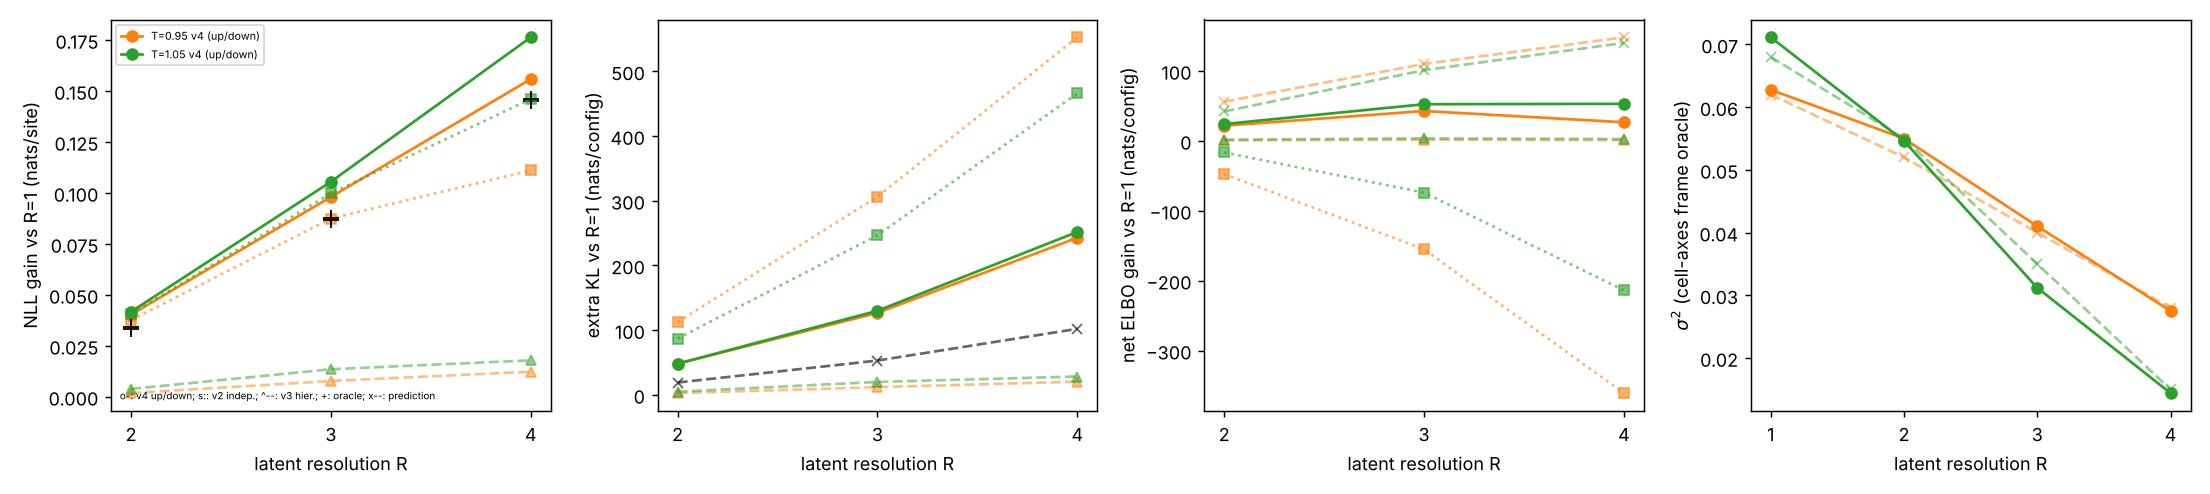
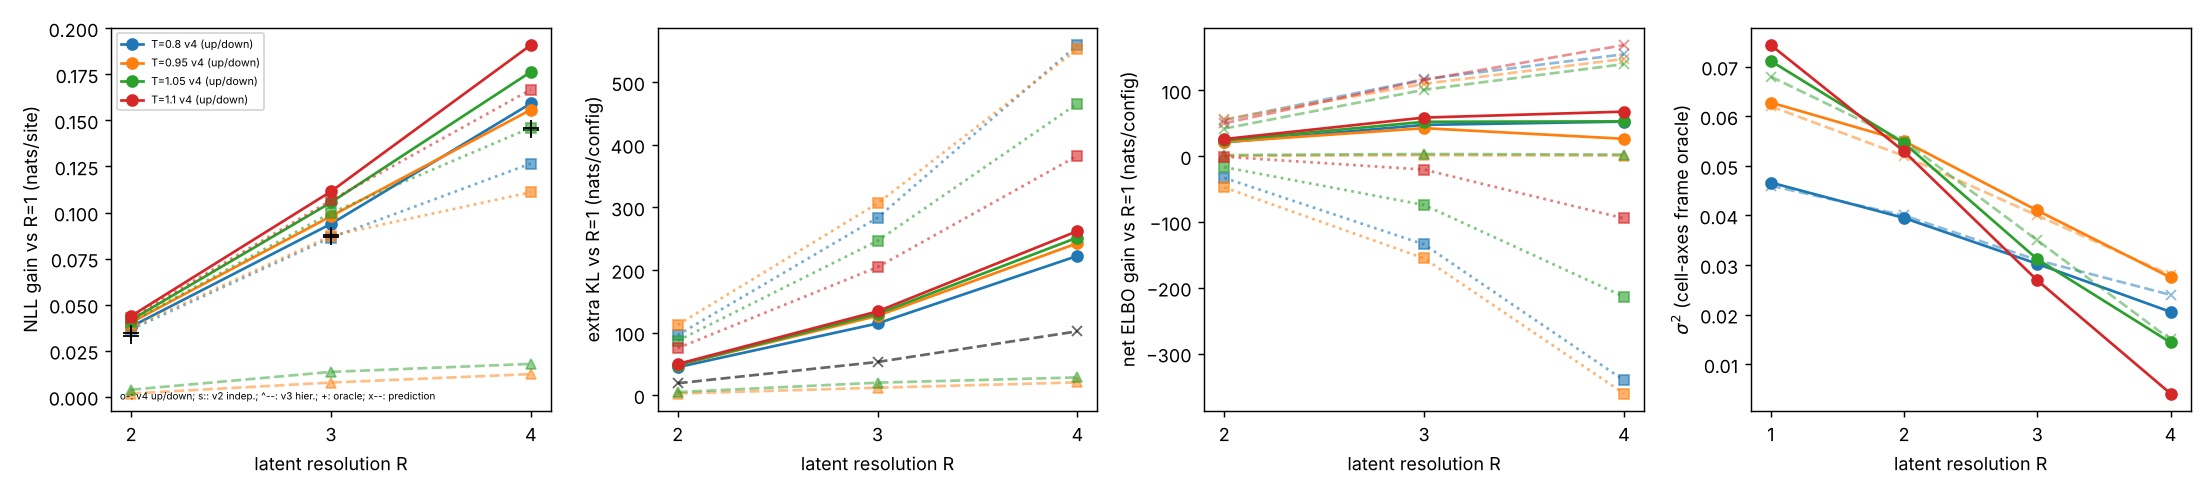
Add v4 report, tables B/W, report script fixes
Claude-Session: https://claude.ai/code/session_01Y8iixnGbWQd54BqjnRoHka

diff --git a/src/make_report_v4.py b/src/make_report_v4.py
@@ -20,8 +20,8 @@ for T in (0.95, 1.05):
             if mm: ORC[(T, int(mm.group(1)))] = float(mm.group(2))
     except FileNotFoundError: pass
 CHAT_ORC = {0.95: {2: .038, 3: .086, 4: .142}}
-PKL = {2: 19, 3: 53, 4: 102}; PNET = {0.95: {2: 56, 3: 110, 4: 148}, 1.05: {2: 42, 3: 101, 4: 140}}
-PS2 = {0.95: [0.062, 0.052, 0.040, 0.028], 1.05: [0.068, 0.055, 0.035, 0.015]}
+PKL = {2: 19, 3: 53, 4: 102}; PNET = {0.95: {2: 56, 3: 110, 4: 148}, 1.05: {2: 42, 3: 101, 4: 140}, 0.80: {2: 55, 3: 117, 4: 155}, 1.10: {2: 50, 3: 116, 4: 169}}
+PS2 = {0.80: [0.046, 0.040, 0.031, 0.024], 0.95: [0.062, 0.052, 0.040, 0.028], 1.05: [0.068, 0.055, 0.035, 0.015]}
 Ts = sorted({T for (T, R) in up})
 # ---- task A table
 L = ["| T | R | NLL gain | oracle gain (cell frames) | gain / oracle | extra KL | budget | extra KL / budget | net ELBO gain | predicted | tau_2 (rad = tau_2/\\|z_g\\|) | dev angle \\|mu_c-mu_g\\|/\\|z_g\\| | v2 independent: gain / extra KL / net | v3 hierarchical: gain / extra KL / net |", "|---|---|---|---|---|---|---|---|---|---|---|---|---|---|"]
@@ -29,9 +29,9 @@ for T in Ts:
     b = base[T]; e1 = -(b["nll_samp"] * N + b["kl"])
     for R in (2, 3, 4):
         if (T, R) not in up: continue
-        u = up[(T, R)]; g = b["nll_samp"] - u["nll"]; o = ORC.get((T, R)); i = ind[(T, R)]; h = hier.get((T, R))
+        u = up[(T, R)]; g = b["nll_samp"] - u["nll"]; o = ORC.get((T, R)); i = ind[(T, R)]; h = hier.get((T, R)); ostr = "-" if o is None else f"{o:.3f}"; rstr = "-" if o is None else f"{100*g/o:.0f}%"
         hs = f"{b['nll_samp']-h['nll']:.3f} / {h['kl']-b['kl']:.0f} / {h['elbo']-e1:+.0f}" if h else "-"
-        L.append(f"| {T} | {R} | {g:.3f} | {o:.3f} | {100*g/o:.0f}% | {u['kl']-b['kl']:.0f} | {PKL[R]} | {(u['kl']-b['kl'])/PKL[R]:.1f}x | {u['elbo']-e1:+.0f} | {PNET[T][R]:+d} | {u['tau2_angle']:.3f} | {u['dev_angle']:.3f} | {b['nll_samp']-i['nll_samp']:.3f} / {i['kl']-b['kl']:.0f} / {-(i['nll_samp']*N+i['kl'])-e1:+.0f} | {hs} |")
+        L.append(f"| {T} | {R} | {g:.3f} | {ostr} | {rstr} | {u['kl']-b['kl']:.0f} | {PKL[R]} | {(u['kl']-b['kl'])/PKL[R]:.1f}x | {u['elbo']-e1:+.0f} | {PNET[T][R]:+d} | {u['tau2_angle']:.3f} | {u['dev_angle']:.3f} | {b['nll_samp']-i['nll_samp']:.3f} / {i['kl']-b['kl']:.0f} / {-(i['nll_samp']*N+i['kl'])-e1:+.0f} | {hs} |")
 open(f"{R_}/v4_table_A.md", "w").write("\n".join(L) + "\n")
 # ---- task C table (decoder-frame oracle)
 L = ["| T | R | sigma2 (cell-axes frame oracle) | predicted sigma2 | a_loc | decoder NLL (mean-z) | frame-oracle NLL | sigma2 (decoder intrinsic, per-sample est.) |", "|---|---|---|---|---|---|---|---|"]
@@ -47,12 +47,13 @@ fig, ax = plt.subplots(1, 4, figsize=(17, 3.8))
 for T in Ts:
     b = base[T]; e1 = -(b["nll_samp"] * N + b["kl"]); Rs = [R for R in (2, 3, 4) if (T, R) in up]
     ax[0].plot(Rs, [b["nll_samp"] - up[(T, R)]["nll"] for R in Rs], "o-", c=col[T], label=f"T={T} v4 (up/down)"); ax[0].plot(Rs, [b["nll_samp"] - ind[(T, R)]["nll_samp"] for R in Rs], "s:", c=col[T], alpha=.6)
-    ax[0].plot(Rs, [b["nll_samp"] - hier[(T, R)]["nll"] for R in Rs if (T, R) in hier], "^--", c=col[T], alpha=.5); ax[0].plot(Rs, [ORC[(T, R)] for R in Rs if (T, R) in ORC], "k+", ms=9)
+    ax[0].plot([R for R in Rs if (T, R) in hier], [b["nll_samp"] - hier[(T, R)]["nll"] for R in Rs if (T, R) in hier], "^--", c=col[T], alpha=.5); ax[0].plot([R for R in Rs if (T, R) in ORC], [ORC[(T, R)] for R in Rs if (T, R) in ORC], "k+", ms=9)
     ax[1].plot(Rs, [up[(T, R)]["kl"] - b["kl"] for R in Rs], "o-", c=col[T], label=f"T={T}"); ax[1].plot(Rs, [ind[(T, R)]["kl"] - b["kl"] for R in Rs], "s:", c=col[T], alpha=.6)
-    ax[1].plot(Rs, [hier[(T, R)]["kl"] - b["kl"] for R in Rs if (T, R) in hier], "^--", c=col[T], alpha=.5)
+    ax[1].plot([R for R in Rs if (T, R) in hier], [hier[(T, R)]["kl"] - b["kl"] for R in Rs if (T, R) in hier], "^--", c=col[T], alpha=.5)
     ax[2].plot(Rs, [up[(T, R)]["elbo"] - e1 for R in Rs], "o-", c=col[T], label=f"T={T}"); ax[2].plot(Rs, [-(ind[(T, R)]["nll_samp"] * N + ind[(T, R)]["kl"]) - e1 for R in Rs], "s:", c=col[T], alpha=.6)
-    ax[2].plot(Rs, [hier[(T, R)]["elbo"] - e1 for R in Rs if (T, R) in hier], "^--", c=col[T], alpha=.5); ax[2].plot(Rs, [PNET[T][R] for R in Rs], "x--", c=col[T], alpha=.5)
-    ax[3].plot([1] + Rs, [fs[(T, R)]["sigma2"] for R in [1] + Rs if (T, R) in fs], "o-", c=col[T], label=f"T={T}"); ax[3].plot([1, 2, 3, 4], PS2[T], "x--", c=col[T], alpha=.5)
+    ax[2].plot([R for R in Rs if (T, R) in hier], [hier[(T, R)]["elbo"] - e1 for R in Rs if (T, R) in hier], "^--", c=col[T], alpha=.5); ax[2].plot(Rs, [PNET[T][R] for R in Rs], "x--", c=col[T], alpha=.5)
+    ax[3].plot([R for R in [1] + Rs if (T, R) in fs], [fs[(T, R)]["sigma2"] for R in [1] + Rs if (T, R) in fs], "o-", c=col[T], label=f"T={T}")
+    if T in PS2: ax[3].plot([1, 2, 3, 4], PS2[T], "x--", c=col[T], alpha=.5)
 ax[1].plot([2, 3, 4], [PKL[R] for R in (2, 3, 4)], "kx--", alpha=.6)
 ax[0].set_ylabel("NLL gain vs R=1 (nats/site)"); ax[1].set_ylabel("extra KL vs R=1 (nats/config)"); ax[2].set_ylabel("net ELBO gain vs R=1 (nats/config)"); ax[3].set_ylabel(r"$\sigma^2$ (cell-axes frame oracle)")
 for a in ax: a.set_xlabel("latent resolution R"); a.set_xticks([1, 2, 3, 4] if a is ax[3] else [2, 3, 4])
@@ -64,4 +65,24 @@ for f in sorted(glob.glob(f"{R_}/v4u/v4u_T0.95o_R*_b1.pt")):
     if lg.size: ax[0].plot(lg[:, 0], lg[:, 4], label=nm, lw=1); ax[1].plot(lg[:, 0], lg[:, 3], label=nm, lw=1)
 ax[0].set_ylabel("val KL (nats/config), T=0.95"); ax[1].set_ylabel("val NLL (nats/site), T=0.95"); ax[0].set_yscale("log")
 for a in ax: a.set_xlabel("step"); a.legend(fontsize=7)
-plt.tight_layout(); plt.savefig(f"{R_}/v4_fig_curves.png", dpi=130); plt.close(); print("ok")
+plt.tight_layout(); plt.savefig(f"{R_}/v4_fig_curves.png", dpi=130); plt.close(); 
+# ---- task B table
+ctrl = {r["T"]: r for r in json.load(open(f"{R_}/v4c/eval_c.json"))}
+allch = {r["T"]: r for r in json.load(open(f"{R_}/v4s2/eval6_allch.json"))}
+L = ["| T | decoder | KL | mean term (1/2 sum mu^2) | variance term | NLL | ELBO | active l=2 channels: |mu| | sigma |", "|---|---|---|---|---|---|---|---|---|"]
+for T in (0.95, 1.05):
+    b = base[T]
+    L.append(f"| {T} | v2 pruned (baseline, trained 40k+10k) | {b['kl']:.1f} | - | - | {b['nll_samp']:.4f} | {-(b['nll_samp']*N+b['kl']):.1f} | - | - |")
+    c = ctrl[T]; L.append(f"| {T} | plain decoder re-initialised (control, 25k) | {c['kl']:.1f} | {c['kl_mean_term']:.1f} | {c['kl_var_term']:.1f} | {c['nll']:.4f} | {c['elbo']:.1f} | {[round(x,2) for x in c['mu_norm']]} | {[round(x,3) for x in c['sigma']]} |")
+    a = allch[T]; L.append(f"| {T} | direction/magnitude separated, all active l=2 channels (25k) | {a['kl']:.1f} | {a['kl_mean_term']:.1f} | {a['kl_var_term']:.1f} | {a['nll']:.4f} | {a['elbo']:.1f} | {[round(x,2) for x in a['mu_norm']]} | {[round(x,3) for x in a['sigma']]} |")
+open(f"{R_}/v4_table_B.md", "w").write("\n".join(L) + "\n")
+# ---- subspace-covariance table
+w = {}
+for f in glob.glob(f"{R_}/v4w/eval7_*.json") + glob.glob(f"{R_}/v4w2/eval7_*.json"):
+    for r in json.load(open(f)): w[(r["T"], r["R"])] = r
+L = ["| T | R | isotropic (v4 up/down): extra KL / net ELBO | subspace covariance: extra KL / net ELBO | predicted net ELBO | tau rot / amp / bi | tau_rot as angle (rad) |", "|---|---|---|---|---|---|---|"]
+for (T, R), r in sorted(w.items()):
+    b = base[T]; e1 = -(b["nll_samp"] * N + b["kl"]); u = up[(T, R)]
+    L.append(f"| {T} | {R} | {u['kl']-b['kl']:.0f} / {u['elbo']-e1:+.0f} | {r['kl']-b['kl']:.0f} / {r['elbo']-e1:+.0f} | {PNET[T][R]:+d} | {', '.join(f'{x:.2f}' for x in r['tau_rot_amp_bi'])} | {r['tau_rot_angle']:.3f} |")
+open(f"{R_}/v4_table_W.md", "w").write("\n".join(L) + "\n")
+print("ok")

diff --git a/REPORT_v4.md b/REPORT_v4.md
@@ -1,0 +1,89 @@
+# v4 보고서: 상향 사후 + 하향 사전, 디코더 크기 분리
+
+의뢰서: `REQUEST_CLAUDE_CODE_v4.md`. 이전 보고서: `REPORT_v3.md`. 코드: `src/mvae5.py`(작업 A), `mvae6.py`(작업 B), `frame_sigma.py`(작업 C), `mvae7.py`(추가 실험: 부분공간 공분산), `eval_5.py`, `eval_6.py`, `eval_c.py`, `eval_7.py`, `cell_gain2.py`, `make_report_v4.py`.
+표·그림: `results/v4_table_A.md`, `v4_table_B.md`, `v4_table_C.md`, `v4_table_W.md`, `v4_fig_A.png`, `v4_fig_curves.png`. 원자료: `results/v4u/`(A), `v4s/`, `v4s2/`, `v4c/`(B와 대조), `v4w/`, `v4w2/`(추가 실험).
+모든 평가는 검증 분할 200배치(셀 좌표계 신탁 이득만 처음 100배치)다.
+
+## 요약
+- **작업 A (상향 사후 + 하향 사전): 부분 성공.** NLL 이득은 모든 경우 셀 좌표계 신탁의 108–122%로 기준(80%)을 넘고, 학습된 τ의 director 각도는 예측 σ_cell과 일치한다. 순 ELBO 이득은 4개 온도 × R=2,3,4 12개 조건 모두 처음으로 양수(+21 ~ +68 nats)다. 그러나 **추가 KL은 예산의 2.2–2.6배**이고 순 ELBO는 예측(+42 ~ +169)의 약 20–60%다.
+- **작업 B (디코더 크기 분리): 성공.** R=1에서 같은 조건의 대조 실험 대비 KL이 26.6→15.1(T=0.95), 22.9→14.0(T=1.05)로 줄고 NLL은 같다. KL이 예산 12–15 nats 범위에 들어왔다. 다만 |μ|는 예측한 √2 대신 2.2에서 멈췄다.
+- **작업 C (σ² 재측정): 예측과 일치.** VAE가 정한 셀 축 기준 σ²가 4개 온도 모두 R과 함께 단조 감소하고 예측과 0.003 안팎으로 맞는다.
+- **추가 실험(부분공간 공분산):** 추가 KL의 초과분을 약 20% 줄이고 순 ELBO를 +10 ~ +26 nats 더 올린다. 등방 사후분포가 초과분의 일부만 설명한다.
+
+## 의뢰서와 다르게 한 점
+1. **상향 사후 + 하향 사전은 닫힌 형태로 구현했다.** z_g의 기댓값을 해석적으로 적분한 KL이다(`mvae5.py`의 `kl_terms`). 디코더는 z_c만 받으므로 정확하다. μ_g와 μ_c는 같은 인코더 머리(`MVAE2.encode`)를 전체 풀링 특징과 셀 풀링 특징에 각각 적용해 얻었다. τ는 차수 l마다 학습하되 l=2만 의미가 있다(가지치기 마스크로 l=2 채널만 활성). 의뢰서가 권한 "τ에도 부분공간 구조를 적용"은 본 작업 A가 아니라 추가 실험(`mvae7.py`)에서만 했다.
+2. **판정 기준 신탁값은 직접 다시 계산했다.** `cell_gain2.py`(의뢰서 `cell_gain.py`와 같은 절차, 온도와 데이터 경로만 인자). T=0.95: 0.033/0.088/0.145, T=1.05: 0.034/0.087/0.146(R=2/3/4, 100배치, 스핀을 섞은 대조로 잰 과적합 제거). 의뢰서의 T=0.95 값 0.038/0.086/0.142와 비슷하다. T=0.80, 1.10의 신탁 이득은 계산하지 않았다.
+3. **학습 조건.** 작업 A는 v2, v3와 같은 조건(R=1 가지치기 모델에서 웜 스타트, 8000 스텝, 배치 16, lr 1e-3)에 KL 워밍업만 5%로 줄였다. 작업 B는 25000 스텝(배치 32, lr 2e-3)이며 디코더를 재초기화했다.
+4. **σ² 측정 방식.** 의뢰서의 "표본별 모멘트 추정식을 디코더에 적용"은 R=2,3,4에서 σ²가 R과 함께 오히려 커졌다(아래). 대신 의뢰서 v2 §4의 "디코더 좌표계 신탁"(VAE가 정한 셀 축으로 스핀을 돌려 모멘트 추정식과 적합을 적용)을 σ²의 주 측정으로 삼았다. 두 방식의 값을 모두 표에 실었다.
+5. **컨테이너 재시작.** 여러 학습이 재시작으로 중단되어 체크포인트에서 재개했다(처음에는 1000스텝, 이후 250스텝마다 저장). 재개 지점부터는 난수열이 달라지므로 비트 단위 재현은 되지 않는다.
+
+## 작업 A (`v4_table_A.md`, `v4_fig_A.png`)
+순 ELBO 이득 = R=1 가지치기 모델 대비 개선(nats/배치). 예측은 의뢰서의 값(T=0.80, 1.10은 v3 의뢰서의 계층 사전 예측).
+
+| T | R | NLL 이득 (신탁 이득) | 추가 KL (예산) | 순 ELBO (예측) | τ₂ 각도 (rad) |
+|---|---|---|---|---|---|
+| 0.95 | 2 / 3 / 4 | 0.040 / 0.098 / 0.156 (0.033 / 0.088 / 0.145) | 48 / 127 / 243 (19 / 53 / 102) | +22 / +43 / +26 (+56 / +110 / +148) | 0.105 / 0.158 / 0.212 |
+| 1.05 | 2 / 3 / 4 | 0.042 / 0.105 / 0.176 (0.034 / 0.087 / 0.146) | 48 / 130 / 252 | +24 / +52 / +53 (+42 / +101 / +140) | 0.140 / 0.208 / 0.276 |
+| 0.80 | 2 / 3 / 4 | 0.038 / 0.094 / 0.159 | 45 / 115 / 222 | +21 / +48 / +53 (+55 / +117 / +155) | 0.096 / 0.138 / 0.182 |
+| 1.10 | 2 / 3 / 4 | 0.044 / 0.111 / 0.191 | 50 / 134 / 262 | +26 / +59 / +68 (+50 / +116 / +169) | 0.177 / 0.266 / 0.359 |
+
+판정 (의뢰서 §1, T=0.95와 1.05):
+- **NLL 이득 ≥ 신탁의 80%:** 통과(108–122%). v2 독립 사전(0.038 / 0.087 / 0.111)이나 v3 계층(0.002 / 0.008 / 0.012)보다 크다.
+- **추가 KL ≈ 예산:** 미통과. 모든 조건에서 예산의 2.2–2.6배이고, R이나 T에 거의 의존하지 않는다.
+- **순 ELBO 이득:** 부호는 맞다(모두 양수; v2는 −17 ~ −361, v3는 +0 ~ +3). 크기는 예측의 약 20–60%(R=2는 39–100%)다. T=0.95에서는 R=3(+43)이 최대이고 R=4(+26)에서 줄어든다.
+- **τ를 각도로 환산 (τ₂/\|z_g\|):** T=0.95에서 0.105 / 0.158 / 0.212 rad로 예측 σ_cell 0.10 / 0.15 / 0.18 rad와 R=2,3에서 일치하고 R=4에서 18% 크다.
+- 학습 곡선(`v4_fig_curves.png`): KL은 처음 높은 값에서 내려와 약 3000–5000스텝에서 정체한다.
+
+추가 KL이 일정하게 약 2.5배인 점은 "사후분포가 정보가 필요한 2차원(director) 대신 5성분 전체에 같은 분산을 쓴다"는 가설(5/2 = 2.5)과 숫자가 맞는다. 아래 추가 실험이 이것을 일부 확인한다.
+
+## 작업 B (`v4_table_B.md`)
+| T | 디코더 | KL | 평균 항 ½Σμ² | 분산 항 | NLL | ELBO | 활성 l=2 채널 \|μ\| |
+|---|---|---|---|---|---|---|---|
+| 0.95 | 기준 (v2 가지치기) | 28.2 | | | 1.4816 | −2588.4 | |
+| 0.95 | 대조 (디코더 재초기화) | 26.6 | 16.3 | 10.3 | 1.4819 | −2587.2 | 5.71 |
+| 0.95 | 분리 디코더 (활성 l=2 채널 전부) | **15.1** | 2.4 | 12.7 | 1.4819 | −2575.8 | 2.19 |
+| 1.05 | 기준 | 20.3 | | | 1.8120 | −3151.5 | |
+| 1.05 | 대조 | 22.9 | 12.6 | 10.3 | 1.8122 | −3154.4 | 5.01 |
+| 1.05 | 분리 디코더 | **14.0** | 2.4 | 11.7 | 1.8122 | −3145.6 | 2.16 |
+
+- 분리 디코더는 NLL을 유지하면서 KL을 대조 대비 11.5 / 8.9 nats 줄인다. 줄어든 몫은 거의 전부 평균 항(16.3→2.4, 12.6→2.4)이다. KL 14–15 nats는 채팅 측 예산 12–15 nats 범위다.
+- **|μ|는 √2가 아니라 2.2에서 멈췄다.** 의뢰서의 최적값 ρ²=2(|μ|=1.41)에 비해 ρ²≈4.8이다. 이유는 확인하지 않았다.
+- **첫 시도는 해석할 수 없었다.** 주 l=2 채널만 분리했을 때, 그 채널이 사전분포로 붕괴하고(|μ|=0.19, σ≈0.99) 정보가 분리되지 않은 다른 l=2 채널로 옮겨갔다(결과: KL 15.2/14.4, 같은 현상). 활성 채널 전부를 분리해도 한 채널은 여전히 붕괴하고 한 채널만 정보를 담는다(위 표의 |μ| 목록 [2.19, 0.15], [0.08, 2.16]). 분리 효과는 "주 채널만"이 아닌 "전부 분리" 실험과 분리 없는 대조 실험의 비교로 판정했다.
+- 한계: 대조와 분리는 25000스텝에서 디코더를 새로 학습했고, 기준은 50000스텝이다. 분리 디코더를 R>1에 쓴 실험은 하지 않았다.
+
+## 작업 C (`v4_table_C.md`)
+VAE가 정한 셀 축 기준 σ²(= 디코더의 l=2 주축 좌표계로 스핀을 돌려 모멘트 추정식 적용). 괄호는 예측(의뢰서 v3 §2.1).
+
+| T | R=1 | R=2 | R=3 | R=4 |
+|---|---|---|---|---|
+| 0.80 | 0.0466 (0.046) | 0.0395 (0.040) | 0.0303 (0.031) | 0.0206 (0.024) |
+| 0.95 | 0.0628 (0.062) | 0.0550 (0.052) | 0.0410 (0.040) | 0.0275 (0.028) |
+| 1.05 | 0.0711 (0.068) | 0.0546 (0.055) | 0.0312 (0.035) | 0.0144 (0.015) |
+| 1.10 | 0.0744 | 0.0529 | 0.0269 | 0.0041 |
+
+- **단조 감소하고 예측과 0.004 이내에서 일치한다**(T=0.80, R=4만 0.0034 어긋남). a_loc는 모든 경우 평균장 6S/T와 5% 안팎이다(예: T=0.95: 4.25 / 4.29 / 4.32 / 4.38, 평균장 4.20).
+- 같은 셀 축으로 스핀을 돌려 데이터에서 직접 잰 값도 같다(셔플 대조로 보정: T=0.95에서 0.052 / 0.039 / 0.030). 즉 예측 자체는 데이터와 일치하고, VAE의 셀 축이 신탁 축만큼 좋다.
+- **디코더 분포 자체에 모멘트 추정식을 적용하면** (T=0.95, 표본별 추정) σ²가 R=2/3/4에서 0.066 / 0.071 / 0.086으로 R=1(0.058)보다 커지고 a_loc도 4.6 / 5.0 / 5.3으로 평균장(4.20)보다 높다. 이 방식은 셀 디코더의 형태에 대해 충실한 측정이 못 된다. 근거: (1) 디코더 NLL이 같은 셀 축에서 직접 적합한 풀링 지수족 NLL보다 낮다(T=0.95, R=2: 1.4269 vs 1.4406; R=3: 1.3447 vs 1.3696). 디코더가 축 외에 셀별 모양(진폭 등)도 따라간다는 뜻이다. (2) R=2,3 디코더의 l=3 파워가 0.6–1.0%로 R=1(1e-6)보다 크다(평균 z 디코딩, 부호 대칭 n→−n을 완전히 지키지 않는다). 이 l=3 성분이 생기는 이유는 확인하지 않았다.
+- 의뢰서 `mix_check.py`의 주장(표본 평균 모멘트는 진폭 혼합 때문에 음수 σ²를 만든다)은 합성 데이터에서 맞고, 표본별 추정을 주 지표로 쓴 v3의 선택과 일치한다. 단 위의 셀 디코더 형태 문제는 별개다.
+
+## 추가 실험: 부분공간 공분산 (`v4_table_W.md`)
+주 l=2 채널(5성분)에서 q(z_g), q(z_c), 사전 τ에 사후 평균 기준 회전(2) / 진폭(1) / 쌍축(2) 부분공간별 분산을 두었다(`mvae7.py`, 등방 극한에서 MVAE5의 닫힌 형태 KL과 정확히 일치함을 확인). 8000스텝, 같은 웜 스타트.
+
+| T | R | 등방(v4): 추가 KL / 순 ELBO | 부분공간: 추가 KL / 순 ELBO | 예측 | τ 회전 / 진폭 / 쌍축 | τ_rot 각도 |
+|---|---|---|---|---|---|---|
+| 0.95 | 2 | 48 / +22 | 39 / **+32** | +56 | 0.61 / 0.18 / 0.44 | 0.140 |
+| 0.95 | 3 | 127 / +43 | 104 / **+69** | +110 | 0.99 / 0.36 / 0.61 | 0.215 |
+| 1.05 | 2 | 48 / +24 | 36 / **+39** | +42 | 0.69 / 0.23 / 0.47 | 0.171 |
+| 1.05 | 3 | 130 / +52 | 111 / **+77** | +101 | 1.05 / 0.44 / 0.68 | 0.265 |
+| 1.05 | 4 | (진행 중) | (진행 중) | +140 | | |
+
+- 순 ELBO가 등방 모델보다 +10 ~ +26 nats 좋고, T=1.05 R=2는 예측의 93%(+39 vs +42)에 도달한다. 추가 KL은 36–111로 예산의 1.9–2.1배다. 등방 가정이 2.4–2.5배 초과 중 약 20%만 설명한다.
+- 쌍축과 진폭 부분공간의 τ(0.18–1.05)와 셀 사후 σ가 회전 부분공간과 다르다.
+- **T=1.05, R=4의 첫 학습은 무효다.** 시작 시점에 R=4 셀 특징으로 주 채널을 골라 정보가 없는 채널(오프셋 21)에 구조를 적용했고(정보는 오프셋 31 채널에 있음), 그 결과 사실상 등방 모델이 되었다(순 ELBO +46). 주 채널을 지정하는 `--act` 옵션을 추가해 다시 학습 중이며(`results/v4w2/`), 끝나면 표를 갱신한다. T=0.95는 활성 l=2 채널이 둘이라 구조가 그중 하나에만 적용된다.
+
+## 하지 않은 것 / 다음 후보
+- 작업 B의 분리 디코더를 R>1(상향 사후 + 하향 사전)에 결합.
+- 부분공간 공분산의 T=0.80, 1.10 및 R=4(T=0.95)와 `frame_sigma.py`의 부분공간 모델 적용.
+- 추가 KL이 여전히 약 2배인 원인 분해: 평균 항(작업 B로 해결됨)과 부분공간 구조의 결합 효과, 두 번째 활성 채널의 비용.
+- 셀 디코더의 l=3 성분과 셀별 모양 변화의 원인 확인.
+- 순 ELBO가 T=0.95에서 R=4에서 줄어드는 이유(8000스텝 미수렴 여부 확인).

diff --git a/results/v4_table_A.md b/results/v4_table_A.md
@@ -1,8 +1,14 @@
 | T | R | NLL gain | oracle gain (cell frames) | gain / oracle | extra KL | budget | extra KL / budget | net ELBO gain | predicted | tau_2 (rad = tau_2/\|z_g\|) | dev angle \|mu_c-mu_g\|/\|z_g\| | v2 independent: gain / extra KL / net | v3 hierarchical: gain / extra KL / net |
 |---|---|---|---|---|---|---|---|---|---|---|---|---|---|
+| 0.8 | 2 | 0.038 | - | - | 45 | 19 | 2.4x | +21 | +55 | 0.096 | 0.308 | 0.037 / 96 / -33 | - |
+| 0.8 | 3 | 0.094 | - | - | 115 | 53 | 2.2x | +48 | +117 | 0.138 | 0.352 | 0.086 / 283 / -134 | - |
+| 0.8 | 4 | 0.159 | - | - | 222 | 102 | 2.2x | +53 | +155 | 0.182 | 0.388 | 0.127 / 559 / -341 | - |
 | 0.95 | 2 | 0.040 | 0.033 | 122% | 48 | 19 | 2.5x | +22 | +56 | 0.105 | 0.195 | 0.038 / 112 / -47 | 0.002 / 3 / +0 |
 | 0.95 | 3 | 0.098 | 0.088 | 112% | 127 | 53 | 2.4x | +43 | +110 | 0.158 | 0.302 | 0.087 / 306 / -155 | 0.008 / 12 / +1 |
 | 0.95 | 4 | 0.156 | 0.145 | 108% | 243 | 102 | 2.4x | +26 | +148 | 0.212 | 0.391 | 0.111 / 553 / -361 | 0.012 / 20 / +1 |
 | 1.05 | 2 | 0.042 | 0.034 | 121% | 48 | 19 | 2.5x | +24 | +42 | 0.140 | 0.245 | 0.041 / 87 / -17 | 0.004 / 5 / +2 |
 | 1.05 | 3 | 0.105 | 0.087 | 122% | 130 | 53 | 2.5x | +52 | +101 | 0.208 | 0.385 | 0.100 / 247 / -74 | 0.014 / 20 / +3 |
 | 1.05 | 4 | 0.176 | 0.146 | 121% | 252 | 102 | 2.5x | +53 | +140 | 0.276 | 0.509 | 0.146 / 466 / -214 | 0.018 / 28 / +3 |
+| 1.1 | 2 | 0.044 | - | - | 50 | 19 | 2.6x | +26 | +50 | 0.177 | 0.299 | 0.043 / 75 / -1 | - |
+| 1.1 | 3 | 0.111 | - | - | 134 | 53 | 2.5x | +59 | +116 | 0.266 | 0.486 | 0.107 / 205 / -20 | - |
+| 1.1 | 4 | 0.191 | - | - | 262 | 102 | 2.6x | +68 | +169 | 0.359 | 0.660 | 0.167 / 383 / -95 | - |

diff --git a/results/v4_table_C.md b/results/v4_table_C.md
@@ -1,5 +1,9 @@
 | T | R | sigma2 (cell-axes frame oracle) | predicted sigma2 | a_loc | decoder NLL (mean-z) | frame-oracle NLL | sigma2 (decoder intrinsic, per-sample est.) |
 |---|---|---|---|---|---|---|---|
+| 0.8 | 1 | 0.0466 | 0.046 | 5.722 | 1.1260 | 1.1266 | - |
+| 0.8 | 2 | 0.0395 | 0.04 | 5.724 | 1.0796 | 1.0843 | 0.0413 |
+| 0.8 | 3 | 0.0303 | 0.031 | 5.770 | 1.0043 | 1.0146 | 0.0510 |
+| 0.8 | 4 | 0.0206 | 0.024 | 5.856 | 0.9075 | 0.9220 | 0.0767 |
 | 0.95 | 1 | 0.0628 | 0.062 | 4.252 | 1.4789 | 1.4823 | - |
 | 0.95 | 2 | 0.0550 | 0.052 | 4.292 | 1.4269 | 1.4406 | 0.0655 |
 | 0.95 | 3 | 0.0410 | 0.04 | 4.320 | 1.3447 | 1.3696 | 0.0714 |
@@ -8,3 +12,7 @@
 | 1.05 | 2 | 0.0546 | 0.055 | 3.122 | 1.7600 | 1.7695 | 0.0735 |
 | 1.05 | 3 | 0.0312 | 0.035 | 3.132 | 1.6761 | 1.6956 | 0.0900 |
 | 1.05 | 4 | 0.0144 | 0.015 | 3.212 | 1.5719 | 1.5988 | 0.1229 |
+| 1.1 | 1 | 0.0744 | - | 2.418 | 2.0387 | 2.0432 | - |
+| 1.1 | 2 | 0.0529 | - | 2.429 | 1.9861 | 2.0004 | 0.0839 |
+| 1.1 | 3 | 0.0269 | - | 2.480 | 1.8998 | 1.9240 | 0.1034 |
+| 1.1 | 4 | 0.0041 | - | 2.579 | 1.7912 | 1.8185 | 0.1326 |

diff --git a/results/v4_table_B.md b/results/v4_table_B.md
@@ -1,0 +1,8 @@
+| T | decoder | KL | mean term (1/2 sum mu^2) | variance term | NLL | ELBO | active l=2 channels: |mu| | sigma |
+|---|---|---|---|---|---|---|---|---|
+| 0.95 | v2 pruned (baseline, trained 40k+10k) | 28.2 | - | - | 1.4816 | -2588.4 | - | - |
+| 0.95 | plain decoder re-initialised (control, 25k) | 26.6 | 16.3 | 10.3 | 1.4819 | -2587.2 | [5.71, 0.05] | [0.078, 1.007] |
+| 0.95 | direction/magnitude separated, all active l=2 channels (25k) | 15.1 | 2.4 | 12.7 | 1.4819 | -2575.8 | [2.19, 0.15] | [0.048, 0.998] |
+| 1.05 | v2 pruned (baseline, trained 40k+10k) | 20.3 | - | - | 1.8120 | -3151.5 | - | - |
+| 1.05 | plain decoder re-initialised (control, 25k) | 22.9 | 12.6 | 10.3 | 1.8122 | -3154.4 | [5.01, 0.07] | [0.077, 1.0] |
+| 1.05 | direction/magnitude separated, all active l=2 channels (25k) | 14.0 | 2.4 | 11.7 | 1.8122 | -3145.6 | [0.08, 2.16] | [0.998, 0.059] |

diff --git a/results/v4_table_W.md b/results/v4_table_W.md
@@ -1,0 +1,7 @@
+| T | R | isotropic (v4 up/down): extra KL / net ELBO | subspace covariance: extra KL / net ELBO | predicted net ELBO | tau rot / amp / bi | tau_rot as angle (rad) |
+|---|---|---|---|---|---|---|
+| 0.95 | 2 | 48 / +22 | 39 / +32 | +56 | 0.61, 0.18, 0.44 | 0.140 |
+| 0.95 | 3 | 127 / +43 | 104 / +69 | +110 | 0.99, 0.36, 0.61 | 0.215 |
+| 1.05 | 2 | 48 / +24 | 36 / +39 | +42 | 0.69, 0.23, 0.47 | 0.171 |
+| 1.05 | 3 | 130 / +52 | 111 / +77 | +101 | 1.05, 0.44, 0.68 | 0.265 |
+| 1.05 | 4 | 252 / +53 | 259 / +46 | +140 | 0.61, 0.61, 0.62 | 47.713 |
